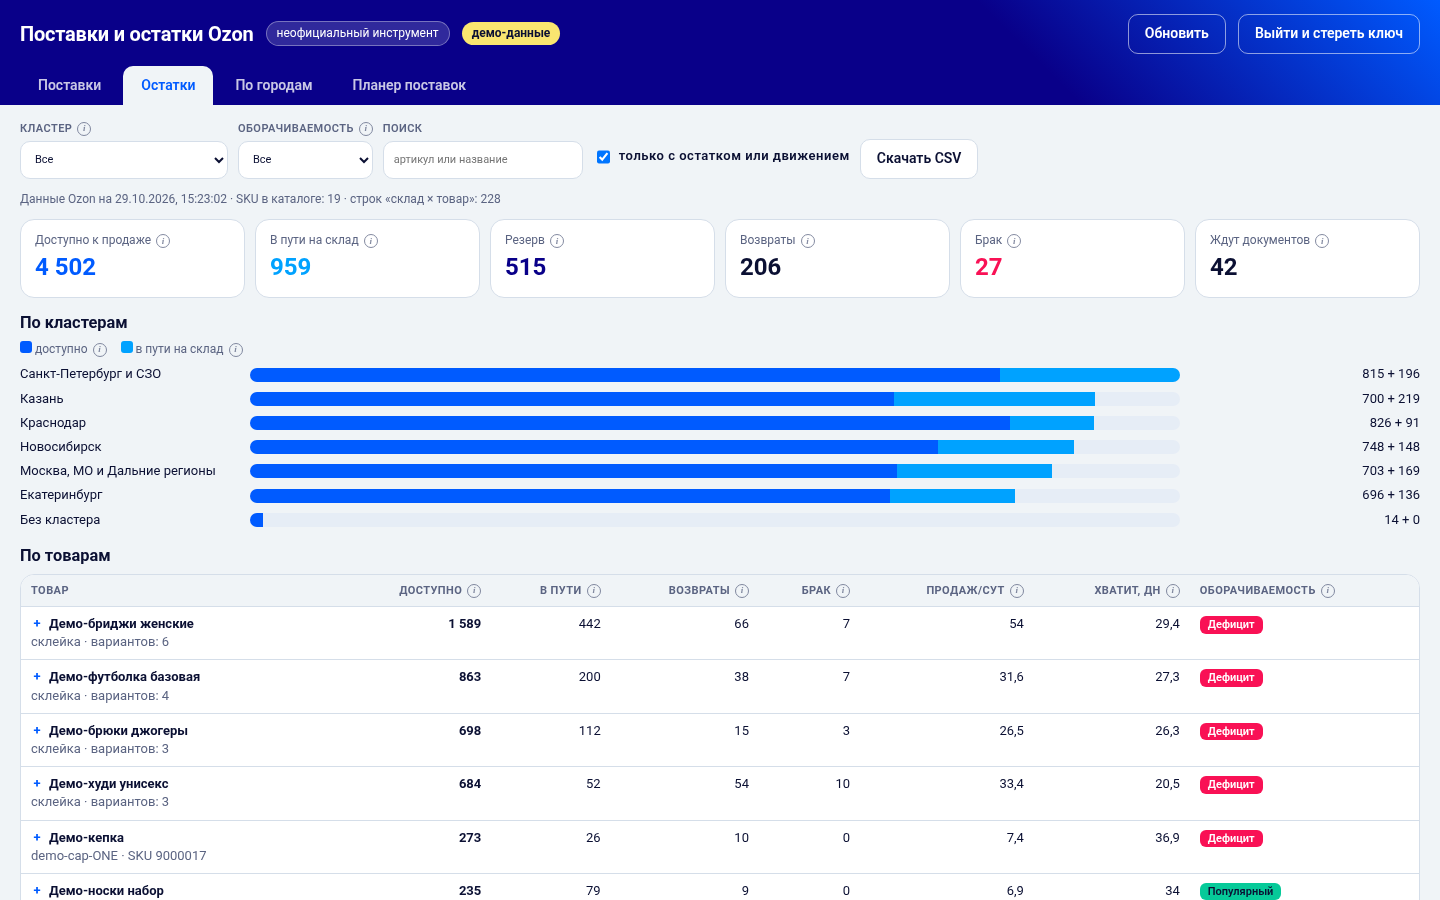
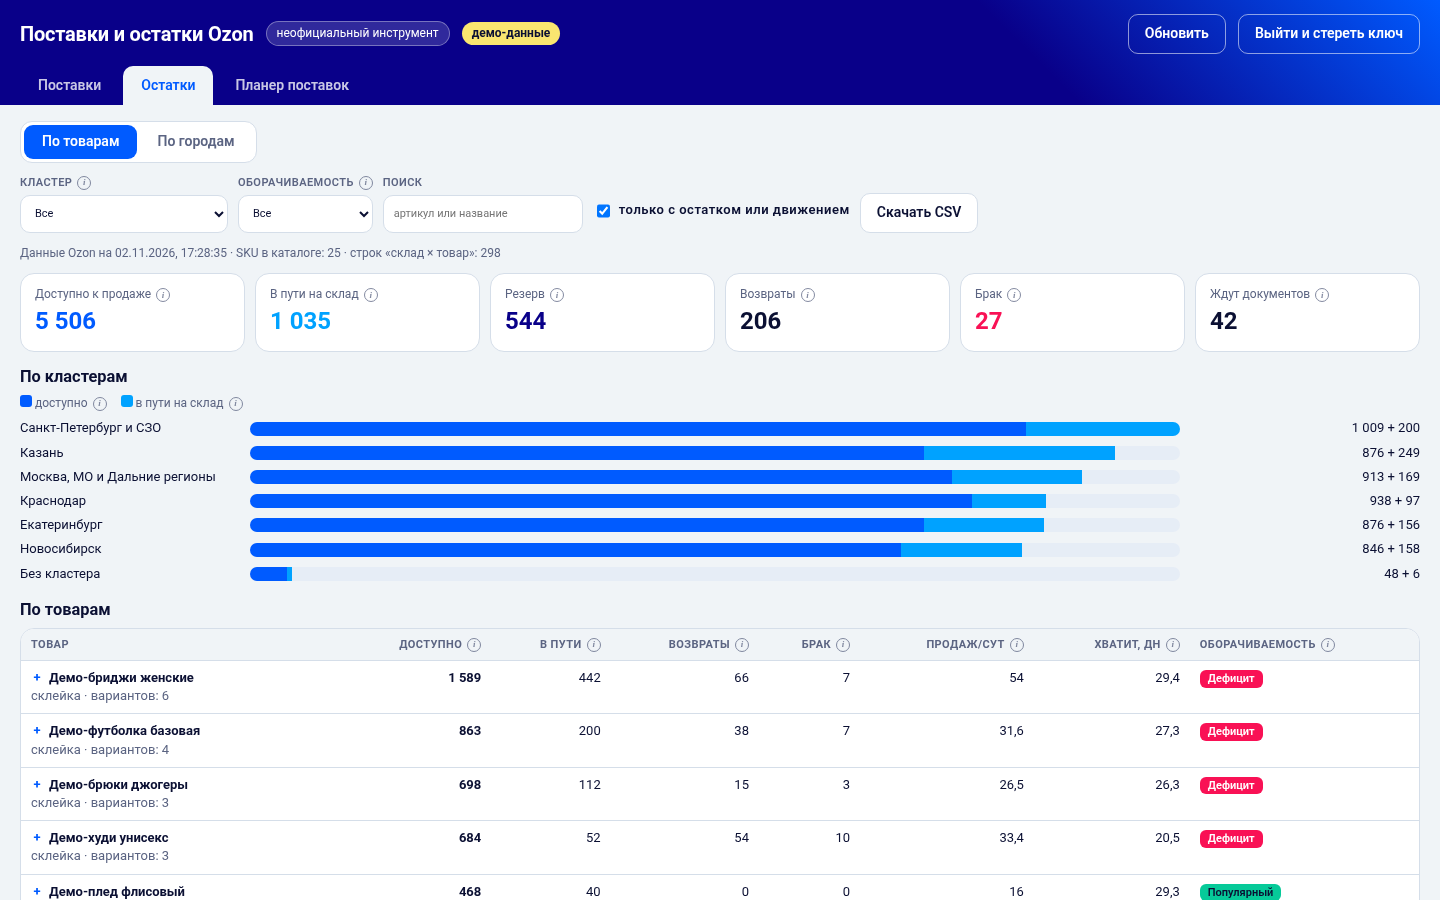
Остатки: вкладки «Остатки» и «По городам» объединены, переключатель режимов

diff --git a/index.html b/index.html
@@ -31,6 +31,9 @@ button{cursor:pointer}
 .btn:disabled{opacity:.5;cursor:default}
 .pill{border:1px solid var(--line);background:var(--white);border-radius:999px;padding:6px 12px;font-size:13px}
 .pill.active{background:var(--blue);border-color:var(--blue);color:#fff}
+.seg{display:inline-flex;gap:2px;padding:3px;margin:0 0 12px;background:var(--white);border:1px solid var(--line);border-radius:12px}
+.segBtn{border:0;background:transparent;color:var(--muted);padding:7px 18px;border-radius:9px;font-weight:600;min-height:34px}
+.segBtn.active{background:var(--blue);color:#fff}
 .top{background:linear-gradient(45deg,var(--night) 70%,var(--blue));color:#fff;padding:14px 20px 0}
 .topRow{display:flex;align-items:center;gap:12px;flex-wrap:wrap}
 .top h1{font-size:20px;font-weight:700;letter-spacing:-.01em}
@@ -168,6 +171,8 @@ tr.risk-mid td:first-child{box-shadow:inset 4px 0 0 #FF9F1C}
   .toolbar label{flex:1 1 140px}
   .toolbar input[type=search]{min-width:0;width:100%}
   .tab{padding:9px 14px}
+  .seg{display:flex}
+  .segBtn{flex:1 1 0;padding:7px 10px}
   .cbar{grid-template-columns:1fr auto;grid-template-areas:"n v" "t t";row-gap:4px;font-size:12px}
   .cbar>span:first-child{grid-area:n;min-width:0;overflow-wrap:anywhere}
   .cbar .track{grid-area:t}
@@ -308,7 +313,6 @@ html.shot .ab-root .ab-badges,html.shot .ab-root .ab-badge{display:none!importan
     <nav class="tabs" role="tablist">
       <button class="tab active" role="tab" data-tab="supplies" type="button">Поставки</button>
       <button class="tab" role="tab" data-tab="stocks" type="button">Остатки</button>
-      <button class="tab" role="tab" data-tab="cities" type="button">По городам</button>
       <button class="tab" role="tab" data-tab="planner" type="button">Планер поставок</button>
     </nav>
   </header>
@@ -348,6 +352,11 @@ html.shot .ab-root .ab-badges,html.shot .ab-root .ab-badge{display:none!importan
       </div>
     </section>
     <section id="tab-stocks" hidden>
+      <div class="seg" role="group" aria-label="Режим остатков" id="stkSeg">
+        <button type="button" class="segBtn active" data-stk="items" aria-pressed="true">По товарам</button>
+        <button type="button" class="segBtn" data-stk="cities" aria-pressed="false">По городам</button>
+      </div>
+      <div id="stk-items">
       <div class="toolbar">
         <label><span class="lt">Кластер<button type="button" class="ib" data-tipkey="cluster" aria-label="Подсказка"></button></span><select id="sCluster"></select></label>
         <label><span class="lt">Оборачиваемость<button type="button" class="ib" data-tipkey="grade" aria-label="Подсказка"></button></span><select id="sGrade"></select></label>
@@ -362,8 +371,8 @@ html.shot .ab-root .ab-badges,html.shot .ab-root .ab-badge{display:none!importan
       <div class="clusterBars" id="clusterBars"></div>
       <h3 style="margin-bottom:6px">По товарам</h3>
       <div class="tableWrap"><table id="stockTable"></table></div>
-    </section>
-    <section id="tab-cities" hidden>
+      </div>
+      <div id="stk-cities" hidden>
       <div class="toolbar">
         <label>Склейка<select id="cGroup"></select></label>
         <label>Поиск<input type="search" id="cQ" placeholder="город, склад, артикул, название"></label>
@@ -377,6 +386,7 @@ html.shot .ab-root .ab-badges,html.shot .ab-root .ab-badge{display:none!importan
       <div class="clusterBars" id="cBars"></div>
       <h3 style="margin-bottom:6px">По городам <button type="button" class="ib" data-tipkey="cityHow" aria-label="Подсказка"></button> <span class="muted" style="font-weight:400;font-size:12px">· город берётся из названия кластера Ozon, а если его нет — из названия склада; неизвестное попадает в «Прочее»</span></h3>
       <div class="tableWrap"><table id="cityTable"></table></div>
+      </div>
     </section>
     <section id="tab-planner" hidden>
       <div class="toolbar">
@@ -1342,9 +1352,15 @@ function showLogin(msg) {
 }
 function showApp() { $("login").hidden = true; $("app").hidden = false; $("demoTag").hidden = !S.demo; }
 function setErr(msg) { const e = $("appErr"); e.hidden = !msg; e.textContent = msg || ""; }
+function setStockMode(mode) {
+  if (mode !== "items" && mode !== "cities") mode = "items";
+  document.querySelectorAll("#stkSeg .segBtn").forEach((b) => { const on = b.dataset.stk === mode; b.classList.toggle("active", on); b.setAttribute("aria-pressed", on ? "true" : "false"); });
+  $("stk-items").hidden = mode !== "items"; $("stk-cities").hidden = mode !== "cities";
+}
 function setTab(name) {
+  if (name === "cities") { name = "stocks"; setStockMode("cities"); } // старое имя вкладки «По городам»
   document.querySelectorAll(".tab").forEach((t) => t.classList.toggle("active", t.dataset.tab === name));
-  ["supplies", "stocks", "cities", "planner"].forEach((k) => { $("tab-" + k).hidden = name !== k; });
+  ["supplies", "stocks", "planner"].forEach((k) => { $("tab-" + k).hidden = name !== k; });
   if (name === "planner" && S.stocks) renderPlanner();
 }
 function renderAll() {
@@ -1393,7 +1409,7 @@ function wipeAll() {
 function start(creds, demo, days) {
   S.creds = creds; S.demo = demo;
   $("days").value = String(days || 30);
-  showApp(); setTab("supplies"); runLoad();
+  showApp(); setTab(typeof OPEN_CITIES !== "undefined" && OPEN_CITIES ? "cities" : "supplies"); runLoad();
 }
 
 /* ---------------- события ---------------- */
@@ -1413,6 +1429,10 @@ $("btnReload").addEventListener("click", () => runLoad());
 $("btnCancel").addEventListener("click", () => { if (S.abort) S.abort.abort(); });
 $("days").addEventListener("change", () => runLoad());
 document.querySelectorAll(".tab").forEach((t) => t.addEventListener("click", () => setTab(t.dataset.tab)));
+document.querySelectorAll("#stkSeg .segBtn").forEach((b) => b.addEventListener("click", () => setStockMode(b.dataset.stk)));
+// Старые ссылки на вкладку «По городам» (#cities, #tab-cities) открывают «Остатки» в режиме городов.
+const OPEN_CITIES = /^#(tab-)?cities(&|$)/.test(location.hash);
+if (OPEN_CITIES) setStockMode("cities");
 ["from", "to", "dropoff", "cluster"].forEach((id) => $(id).addEventListener("change", () => {
   if (id === "from" || id === "to") document.querySelectorAll("#presets button").forEach((b) => b.classList.remove("active"));
   renderSupplies();
@@ -1435,7 +1455,7 @@ $("btnCsv").addEventListener("click", downloadCsv);
 $("stockTable").addEventListener("click", (e) => { const r = e.target.closest("tr[data-sku]"); if (!r) return; const k = r.dataset.sku; if (expanded.has(k)) expanded.delete(k); else expanded.add(k); renderStocks(); });
 
 /* ============================================================
-   ВКЛАДКА «ПО ГОРОДАМ»: сколько товара сейчас в каждом городе
+   РЕЖИМ «ПО ГОРОДАМ» вкладки «Остатки»: сколько товара сейчас в каждом городе
    Город = из названия кластера Ozon («Москва, МО и Дальние регионы» → Москва),
    если кластера нет — из названия склада («КАЗАНЬ_РФЦ_НОВЫЙ» → Казань), иначе «Прочее».
    ============================================================ */
@@ -1455,7 +1475,7 @@ function cityOf(i) {
   const words = parts.filter((p) => !WH_NOISE.test(p.toUpperCase()));
   return words.length ? titleCase(words.join(" ")) : "Прочее";
 }
-/* общий контрол «Склейка» (вкладки «По городам» и «Планер поставок») */
+/* общий контрол «Склейка» (режим «По городам» вкладки «Остатки» и «Планер поставок») */
 function fillGroupSelect(id) {
   const sel = $(id), g0 = sel.value, gs = new Map();
   ((S.stocks && S.stocks.items) || []).forEach((i) => { if (!gs.has(i.gkey)) gs.set(i.gkey, i.gname + (i.gvariants > 1 ? ` · ${i.gvariants} вар.` : "")); });

diff --git a/README.md b/README.md
@@ -22,13 +22,13 @@
 
 ![Карточка поставки](screenshots/3-supply-card.png)
 
-**Остатки по товарам и кластерам**
+**Остатки, режим «По товарам»: кластеры и товары**
 
-![Остатки](screenshots/4-stocks.png)
+![Остатки, режим «По товарам»](screenshots/4-stocks.png)
 
-**По городам: сколько товара в каждом кластере**
+**Остатки, режим «По городам»: сколько товара в каждом городе**
 
-![По городам](screenshots/5-cities.png)
+![Остатки, режим «По городам»](screenshots/5-cities.png)
 
 **Планер поставок: сколько и куда отправить**
 
@@ -44,19 +44,20 @@
 - по каждому направлению видно, сколько штук в каких коробках;
 - **склейки** определяются как в Ozon: по `model_id` («Объединить на одной карточке»), а не по названию. Бриджи 8 размеров с тремя разными SEO-названиями — это одна склейка; общее название — общая часть названий или самое частое. Товары без `model_id` показываются поштучно.
 
-**Вкладка «Остатки»**
+**Вкладка «Остатки»** — одни и те же данные Ozon в двух режимах, переключатель «По товарам / По городам» сверху:
 - возле неочевидных полей и колонок есть значок ⓘ: на компьютере подсказка открывается по наведению, на телефоне по нажатию; в подсказках — смысл поля и формула;
-- доступно к продаже, в пути на склад, резерв (отдельный значок «Резерв N»: зарезервировано под заказы покупателей, ещё не отгружено), возвраты, брак;
-- столбики по кластерам, таблица по товарам с раскрытием по складам;
-- оборачиваемость и «хватит, дн.»;
-- остатки сгруппированы по склейкам (раскрытие: кластеры → размеры);
-- выгрузка в CSV.
-
-**Вкладка «По городам»**
-- сколько товара сейчас в каждом городе/кластере: доступно, в пути, резерв; сортировка по объёму, столбчатая диаграмма;
-- раскрытие до складов и до склеек → размеров (SKU);
-- город берётся из названия кластера Ozon («Москва, МО и Дальние регионы» → Москва), если кластера нет — из названия склада; неизвестное попадает в «Прочее»;
-- выгрузка в CSV.
+- общее для обоих режимов: доступно к продаже, в пути на склад, резерв (отдельный значок «Резерв N»: зарезервировано под заказы покупателей, ещё не отгружено), столбчатая диаграмма, раскрытие строк, выгрузка в CSV;
+- **режим «По товарам»** отвечает на вопрос «как дела у конкретного товара»:
+  - плитки: доступно, в пути, резерв, возвраты, брак, ждут документов;
+  - столбики по кластерам, таблица по товарам с раскрытием по складам;
+  - оборачиваемость и «хватит, дн.»;
+  - остатки сгруппированы по склейкам (раскрытие: кластеры → размеры);
+  - фильтры: кластер, оборачиваемость, поиск;
+- **режим «По городам»** отвечает на вопрос «сколько всего товара в каждом городе»:
+  - сколько товара сейчас в каждом городе/кластере: доступно, в пути, резерв; сортировка по объёму, столбчатая диаграмма;
+  - раскрытие до складов и до склеек → размеров (SKU);
+  - город берётся из названия кластера Ozon («Москва, МО и Дальние регионы» → Москва), если кластера нет — из названия склада; неизвестное попадает в «Прочее»;
+  - фильтры: склейка, поиск.
 
 **Вкладка «Планер поставок»**
 - для каждой склейки → размера (SKU) → кластера: продажи в день, остаток, в пути, «хватит, дн.» и рекомендация к отправке;
